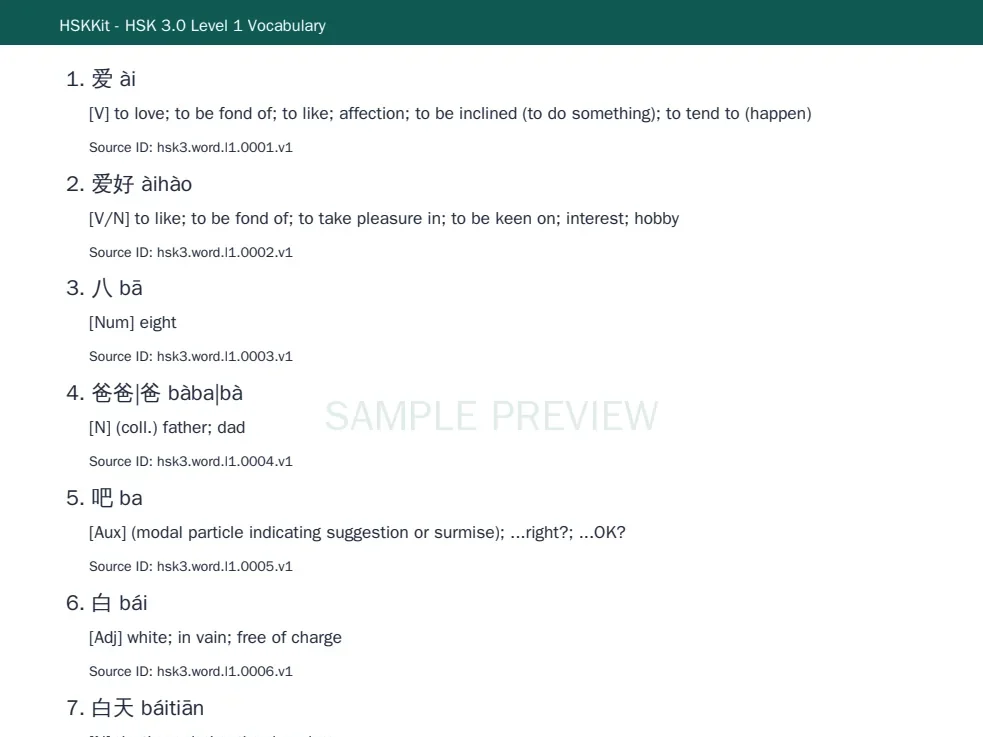
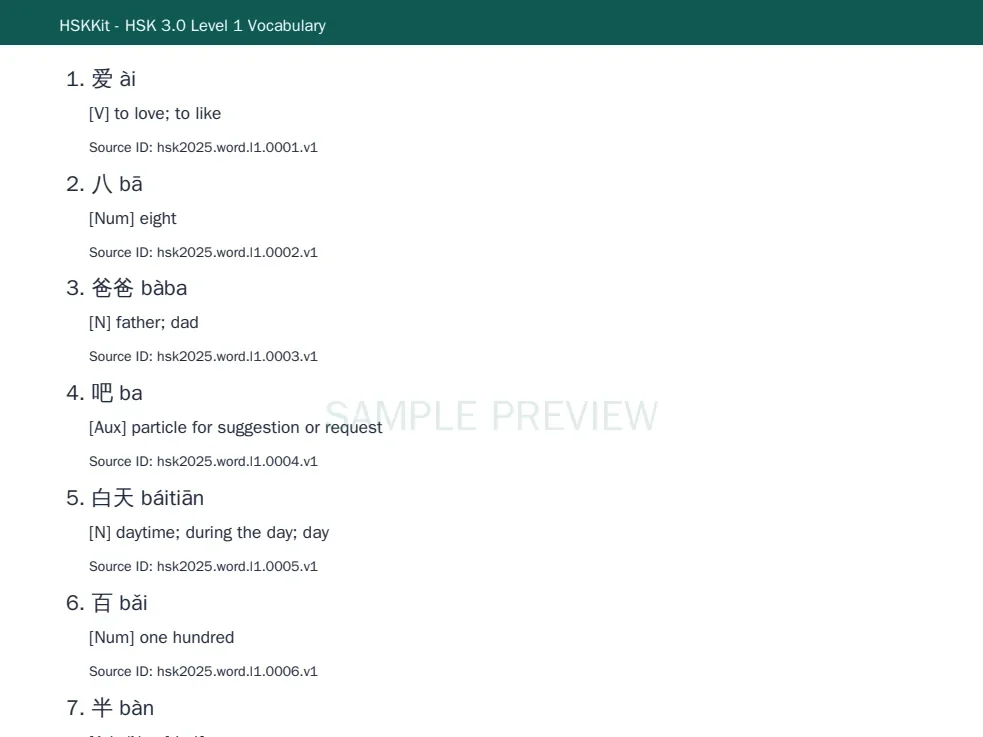
Update HSK 1 commercial PDFs and bundles to 2025 syllabus

diff --git a/src/lib/commercial/products.ts b/src/lib/commercial/products.ts
@@ -3,6 +3,7 @@ export const DIGITAL_ACCESS_DAYS=14;
 export const DIGITAL_REFUND_DAYS=7;
 export const DIGITAL_DOWNLOAD_LIMIT=3;
 export const DEFAULT_PRODUCT_GENERATION_VERSION="complete-vocabulary-v2";
+export const HSK1_VOCABULARY_GENERATION_VERSION="complete-vocabulary-hsk1-2025-v3";
 export const PLANNER_GENERATION_VERSION="planner-guided-v6";
 export const PLANNER_BUNDLE_GENERATION_VERSION="learner-toolkit-current-v6";
 export const EXAM_BUNDLE_GENERATION_VERSION="exam-preparation-current-v4";
@@ -26,19 +27,19 @@ export type DigitalProduct={
 };
 
 const levelDefinitions=[
-  {level:1,count:500,amountCents:399},{level:2,count:772,amountCents:599},{level:3,count:973,amountCents:799},
+  {level:1,count:300,amountCents:399},{level:2,count:772,amountCents:599},{level:3,count:973,amountCents:799},
   {level:4,count:1000,amountCents:1099},{level:5,count:1071,amountCents:1399},{level:6,count:1140,amountCents:1799},
 ] as const;
 const levelProducts=levelDefinitions.map(({level,count,amountCents})=>({
   id:`level-${level}` as DigitalProductId,sku:`hskkit_hsk3_level_${level}_complete_v2`,name:`HSK ${level} Complete Vocabulary`,shortName:`HSK ${level} Complete`,amountCents,currency:DIGITAL_CURRENCY,category:"level" as const,levels:[level],format:"pdf" as const,vocabularyCount:count,
-  description:`All ${count.toLocaleString("en-US")} HSK 3.0 Level ${level} entries with Hanzi, tone-marked pinyin, dictionary-style English glosses, available part-of-speech labels and source IDs.`,
+  description:`All ${count.toLocaleString("en-US")} HSK 3.0 Level ${level} entries${level===1?" following the 2025 exam syllabus":""}, with Hanzi, tone-marked pinyin, dictionary-style English glosses, available part-of-speech labels and source IDs.`,
 }));
 export const DIGITAL_PRODUCTS:readonly DigitalProduct[]=[
   ...levelProducts,
-  {id:"starter-1-3",sku:"hskkit_hsk3_starter_1_3_complete_v2",name:"HSK 1–3 Starter Complete",shortName:"Starter 1–3",amountCents:999,currency:DIGITAL_CURRENCY,category:"bundle",levels:[1,2,3],format:"zip",vocabularyCount:2245,description:"All 2,245 canonical HSK 3.0 entries from Levels 1–3 in three searchable PDFs and one offline ZIP."},
+  {id:"starter-1-3",sku:"hskkit_hsk3_starter_1_3_complete_v2",name:"HSK 1–3 Starter Complete",shortName:"Starter 1–3",amountCents:999,currency:DIGITAL_CURRENCY,category:"bundle",levels:[1,2,3],format:"zip",vocabularyCount:2045,description:"2,045 HSK 3.0 entries in three searchable PDFs: the 300-word 2025 HSK 1 syllabus plus separately versioned Levels 2–3, and one offline ZIP."},
   {id:"progression-4-6",sku:"hskkit_hsk3_progression_4_6_v2",name:"HSK 4–6 Progression",shortName:"Progression 4–6",amountCents:2999,currency:DIGITAL_CURRENCY,category:"bundle",levels:[4,5,6],format:"zip",vocabularyCount:3211,description:"All 3,211 canonical HSK 3.0 entries from Levels 4–6 in three searchable PDFs and one offline ZIP."},
   {id:"advanced-7-9",sku:"hskkit_hsk3_advanced_7_9_complete_v2",name:"HSK 3.0 Advanced 7–9 Complete Vocabulary Pack",shortName:"Advanced 7–9",amountCents:3999,currency:DIGITAL_CURRENCY,category:"bundle",levels:[7],format:"zip",vocabularyCount:5636,description:"The complete unified HSK 3.0 Advanced 7–9 band: one complete index plus three HSKKit reading volumes, never presented as official separate Level 7, 8 and 9 lists."},
-  {id:"complete-1-9",sku:"hskkit_hsk3_complete_1_9_library_v2",name:"HSK 1–9 Complete Vocabulary Library",shortName:"Complete Library",amountCents:4999,currency:DIGITAL_CURRENCY,category:"bundle",levels:[1,2,3,4,5,6,7],format:"zip",vocabularyCount:11092,description:"All 11,092 canonical HSK 3.0 entries: Levels 1–6 plus the unified Advanced 7–9 band, delivered as searchable PDFs and one offline ZIP."},
+  {id:"complete-1-9",sku:"hskkit_hsk3_complete_1_9_library_v2",name:"HSK 1–9 Complete Vocabulary Library",shortName:"Complete Library",amountCents:4999,currency:DIGITAL_CURRENCY,category:"bundle",levels:[1,2,3,4,5,6,7],format:"zip",vocabularyCount:10892,description:"10,892 entries in seven searchable PDFs and one offline ZIP: the 300-word 2025 HSK 1 syllabus plus separately versioned Levels 2–6 and the unified Advanced 7–9 band."},
   {id:"worksheet-pack",sku:"hskkit_hsk3_worksheet_pack_v2",name:"HSK Worksheet Pack",shortName:"Worksheet",amountCents:1299,currency:DIGITAL_CURRENCY,category:"resource",levels:[1,2,3,4,5,6,7],format:"zip",description:"Levels 1–9 student workbook, answer key, completed samples and progress checklist; study flow in README."},
   {id:"assessment-tracker",sku:"hskkit_hsk3_assessment_tracker_v2",name:"HSK Assessment Tracker",shortName:"Tracker",amountCents:499,currency:DIGITAL_CURRENCY,category:"resource",levels:[1,2,3,4,5,6,7],format:"zip",description:"Spreadsheet-ready tracker covering all 11,092 canonical entries, with weekly review records, scoring guide and printable checkpoints."},
   {id:"30-day-planner",sku:"hskkit_hsk3_30_day_planner_v2",name:"HSK 30-Day Planner",shortName:"30-Day Planner",amountCents:699,currency:DIGITAL_CURRENCY,category:"resource",levels:[1,2,3,4,5,6,7],format:"zip",description:"Personalized thirty-day study system with Assessment mapping, distinct 20/30/45-minute routes, weekly reviews and recovery worksheet."},
@@ -50,11 +51,11 @@ export const DIGITAL_PRODUCTS:readonly DigitalProduct[]=[
 
 export function digitalProduct(value:unknown){return DIGITAL_PRODUCTS.find(product=>product.id===value)??null;}
 export function productLicenseNotice(productId:unknown){const product=digitalProduct(productId);return product?.category==="level"||product?.category==="bundle"?VOCABULARY_PRODUCT_LICENSE:productId==="teacher-lesson-plan-pack"?TEACHER_PRODUCT_LICENSE:PURCHASED_PRODUCT_LICENSE;}
-export function generationVersionForProduct(productId:unknown){return productId==="assessment-tracker"?"assessment-tracker-v5":productId==="learner-practice-toolkit"?PLANNER_BUNDLE_GENERATION_VERSION:productId==="exam-preparation-bundle"?EXAM_BUNDLE_GENERATION_VERSION:productId==="worksheet-pack"?WORKSHEET_GENERATION_VERSION:productId==="30-day-planner"?PLANNER_GENERATION_VERSION:productId==="practice-assessment-pack"?PRACTICE_ASSESSMENT_GENERATION_VERSION:productId==="teacher-lesson-plan-pack"?TEACHER_PACK_GENERATION_VERSION:DEFAULT_PRODUCT_GENERATION_VERSION;}
+export function generationVersionForProduct(productId:unknown){return productId==="level-1"||productId==="starter-1-3"||productId==="complete-1-9"?HSK1_VOCABULARY_GENERATION_VERSION:productId==="assessment-tracker"?"assessment-tracker-v5":productId==="learner-practice-toolkit"?PLANNER_BUNDLE_GENERATION_VERSION:productId==="exam-preparation-bundle"?EXAM_BUNDLE_GENERATION_VERSION:productId==="worksheet-pack"?WORKSHEET_GENERATION_VERSION:productId==="30-day-planner"?PLANNER_GENERATION_VERSION:productId==="practice-assessment-pack"?PRACTICE_ASSESSMENT_GENERATION_VERSION:productId==="teacher-lesson-plan-pack"?TEACHER_PACK_GENERATION_VERSION:DEFAULT_PRODUCT_GENERATION_VERSION;}
 export function productDeliverableLabels(productId:unknown):string[]{
   const product=digitalProduct(productId);if(!product)throw new Error("INVALID_PRODUCT");
   if(product.category==="level")return [`${product.vocabularyCount?.toLocaleString("en-US")} entries in one searchable PDF`,`Source and licence notes inside the PDF`];
-  if(product.category==="bundle")return product.id==="advanced-7-9"?["One complete Advanced 7–9 index plus three HSKKit reading volumes","Manifest, README, licence and checksums in one ZIP"]:product.id==="complete-1-9"?["Seven complete catalogs covering 11,092 entries","Three additional Advanced reading volumes plus manifest and licence in the ZIP"]:[`${product.levels.length} searchable vocabulary PDFs covering ${product.vocabularyCount?.toLocaleString("en-US")} entries`,`Manifest, README, licence and checksums in one ZIP`];
+  if(product.category==="bundle")return product.id==="advanced-7-9"?["One complete Advanced 7–9 index plus three HSKKit reading volumes","Manifest, README, licence and checksums in one ZIP"]:product.id==="complete-1-9"?["Seven complete catalogs covering 10,892 entries","Three additional Advanced reading volumes plus manifest and licence in the ZIP"]:[`${product.levels.length} searchable vocabulary PDFs covering ${product.vocabularyCount?.toLocaleString("en-US")} entries`,`Manifest, README, licence and checksums in one ZIP`];
   if(product.category==="resource_bundle")return [`${product.componentProductIds?.length} complete resource products in one purchase`,`One combined ZIP with manifest, licence and checksums`];
   return buildProductDeliveries(product.id).map(delivery=>delivery.artifactType==="worksheet"?"Eight searchable PDFs: Start Here page map, four student editions, answer key, completed samples and progress checklist in one ZIP":delivery.artifactType==="assessment"?"Complete 11,092-entry tracker, scoring guide and printable records in one ZIP":delivery.artifactType==="planner"?"Printable, fillable and Quick Start PDFs in one ZIP":delivery.artifactType==="practice_assessment"?"Forms A/B/C, MP3s, scripts, answers, rubrics and score tracker in one ZIP":"Teacher plans, handouts, tickets/cards, homework key/rubric and editable DOCX/PPTX in one ZIP");
 }

diff --git a/src/lib/commercial/generator.ts b/src/lib/commercial/generator.ts
@@ -48,6 +48,7 @@ export async function generatePackPdf(selection: PackSelection, manifest: PackMa
   const font = await pdf.embedFont(fontBytes, { subset: false });
   const levelLabel=options?.label??(selection.level>=7?"Advanced 7–9":`Level ${selection.level}`);
   const isVolume=options?.totalAdvancedCount!==undefined;
+  const is2025Hsk1=selection.level===1&&manifest.standardVersion==="HSK-EXAM-2025";
   pdf.setTitle(`HSKKit HSK 3.0 ${levelLabel}${isVolume?" Vocabulary":" Complete Vocabulary"}`);
   pdf.setAuthor("HSKKit");
   pdf.setSubject(`HSK 3.0 ${levelLabel} vocabulary reference; ${manifest.generationVersion}`);
@@ -67,7 +68,7 @@ export async function generatePackPdf(selection: PackSelection, manifest: PackMa
   cover.drawText("汉字 · Pinyin · English · Source ID", { x: 40, y, size: 13, font }); y -= 32;
   const entryStatement=isVolume?`This reading volume repeats ${selection.words.length} of ${options.totalAdvancedCount} entries from the complete Advanced 7–9 index; numbering is continuous across the three volumes.`:`${selection.words.length} entries in this complete ${selection.level>=7?"unified Advanced 7–9 band":`Level ${selection.level}`} reference.`;
   y=drawWrapped(cover,`${entryStatement}\nGeneration: ${manifest.generationVersion}. Standard scope: ${manifest.standardVersion}. Audio is not included.`,font,10,40,y,515,15)-22;
-  y=drawWrapped(cover,"How to use this reference: find a pinyin initial below, then use page numbers or PDF search for an exact Hanzi, pinyin, English gloss or source ID. Dictionary-style glosses can include several senses; they are not graded lesson translations. A part-of-speech label appears only when the source assigns one. A vertical bar separates alternative headwords and matching pronunciations.",font,10,40,y,515,15)-16;
+  y=drawWrapped(cover,`How to use this reference: find a pinyin initial below, then use page numbers or PDF search for an exact Hanzi, pinyin, English gloss or source ID. Dictionary-style glosses can include several senses; they are not graded lesson translations. A part-of-speech label appears only when the source assigns one.${is2025Hsk1?"":" A vertical bar separates alternative headwords and matching pronunciations."}`,font,10,40,y,515,15)-16;
   if(selection.level>=7)y=drawWrapped(cover,"Advanced 7–9 is one unified vocabulary band. The reading volumes are HSKKit usability divisions, not official separate Level 7, 8 and 9 lists.",font,10,40,y,515,15)-16;
   cover.drawText("Find words by pinyin initial",{x:40,y,size:16,font,color:rgb(0.06,0.35,0.32)});
   const indexTop=y-30;
@@ -101,13 +102,17 @@ export async function generatePackPdf(selection: PackSelection, manifest: PackMa
   page=pdf.addPage(pageSize);y=790;addHeader(page);
   page.drawText("Sources, rights and traceability", { x: 40, y, size: 16, font, color: rgb(0.06,0.35,0.32) }); y -= 28;
   y=drawWrapped(page,manifest.licenseNotice,font,9,40,y,515,13)-16;
-  y=drawWrapped(page,"Level membership: PRC Ministry of Education, GF0025-2021 (https://www.moe.gov.cn/). Pinyin, variants and available POS: ivankra/hsk30 commit 4ff9e391 (MIT; https://github.com/ivankra/hsk30). English definitions: CC-CEDICT snapshot e0d756cb (CC BY-SA 4.0; https://www.mdbg.net/chinese/dictionary?page=cc-cedict and https://creativecommons.org/licenses/by-sa/4.0/). HSKKit adapts the source data for this publication. Every entry retains its source ID; the versioned delivery manifest records the full per-entry references.",font,9,40,y,515,13)-16;
+  y=drawWrapped(page,is2025Hsk1
+    ?"Level 1 placement: 2025 HSK exam syllabus (https://www.chinesetest.cn/HSK). HSKKit edited the pinyin, parts of speech and learner glosses for this publication. Adapted English definitions retain CC BY-SA 4.0 rights (https://creativecommons.org/licenses/by-sa/4.0/). Every entry retains its source ID; the versioned delivery manifest records per-entry references."
+    :"Level membership: PRC Ministry of Education, GF0025-2021 (https://www.moe.gov.cn/). Pinyin, variants and available POS: ivankra/hsk30 commit 4ff9e391 (MIT; https://github.com/ivankra/hsk30). English definitions: CC-CEDICT snapshot e0d756cb (CC BY-SA 4.0; https://www.mdbg.net/chinese/dictionary?page=cc-cedict and https://creativecommons.org/licenses/by-sa/4.0/). HSKKit adapts the source data for this publication. Every entry retains its source ID; the versioned delivery manifest records the full per-entry references.",font,9,40,y,515,13)-16;
   const sourceGroups=new Map<string,number>();for(const asset of manifest.assets){const key=`${asset.sourceRef} · ${asset.licenseRef}`;sourceGroups.set(key,(sourceGroups.get(key)??0)+1);}
   for(const [source,count] of sourceGroups){ensure(80);y=drawWrapped(page,`${count} entries: ${source}`,font,8,40,y,515,11)-8;}
   const editorial=selection.words.filter(word=>word.sourceRef.includes("hskkit-editorial"));
   if(editorial.length){ensure(100);y=drawWrapped(page,`HSKKit original compositional glosses: ${editorial.map(word=>word.id).join(", ")}`,font,8,40,y,515,11)-16;}
-  ensure(130);page.drawText("MIT source notice",{x:40,y,size:12,font,color:rgb(0.06,0.35,0.32)});y-=20;
-  for(const paragraph of HSK30_MIT_NOTICE.split("\n")){ensure(65);y=drawWrapped(page,paragraph,font,8,40,y,515,11)-2;}
+  if(!is2025Hsk1){
+    ensure(130);page.drawText("MIT source notice",{x:40,y,size:12,font,color:rgb(0.06,0.35,0.32)});y-=20;
+    for(const paragraph of HSK30_MIT_NOTICE.split("\n")){ensure(65);y=drawWrapped(page,paragraph,font,8,40,y,515,11)-2;}
+  }
   const initials=[...initialPages.entries()].sort(([a],[b])=>a.localeCompare(b));
   for(const [index,[letter,pageNumber]] of initials.entries()){
     const column=index>=Math.ceil(initials.length/2)?1:0;

diff --git a/src/app/store/page.tsx b/src/app/store/page.tsx
@@ -24,7 +24,7 @@ const lowestPriceCents=Math.min(...config.products.map(product=>product.saleAmou
 const itemList={"@context":"https://schema.org","@type":"ItemList",name:"HSKKit HSK 3.0 digital product catalog",itemListOrder:"https://schema.org/ItemListOrderAscending",numberOfItems:config.products.length,url:"https://hskkit.com/store",itemListElement:config.products.map((product,index)=>({"@type":"ListItem",position:index+1,name:product.name,url:`https://hskkit.com/store/${product.id}`}))};
 return <><StoreMobileStyle/><SiteHeader/><main data-store-route className="mx-auto w-full max-w-[1120px] px-5 py-[36px] sm:py-[56px]"><script type="application/ld+json" dangerouslySetInnerHTML={{__html:JSON.stringify(itemList)}}/>
 <header className="border-b border-slate-200 pb-[28px] sm:pb-[36px]"><p className="text-xs font-bold uppercase tracking-[0.16em] text-blue-700">One-time digital materials · Secure Stripe checkout</p><h1 className="mt-3 text-[34px] font-extrabold leading-tight tracking-[-0.035em] text-slate-950 sm:text-[46px]">Build a practical HSK 3.0 study library</h1><p className="mt-4 max-w-3xl text-base leading-7 text-slate-600 sm:text-lg">Find complete HSK 3.0 vocabulary PDFs, cross-level bundles, and ready-to-use practice or teaching resources.</p><div className="mt-5 flex flex-wrap gap-x-6 gap-y-2 text-sm font-semibold text-slate-700"><span>Products from US${(lowestPriceCents/100).toFixed(2)}</span><span>3 successful downloads per delivery</span><span>14-day download window</span></div></header>
-<p className="mt-5 rounded-xl border border-amber-200 bg-amber-50 px-5 py-3 text-sm leading-6 text-amber-950">The online HSK 1 vocabulary list now follows the 2025 exam syllabus (300 words). The downloadable Level 1 PDF and bundles containing it still include the separately versioned 500-entry file. Check each product’s preview and stated count before buying.</p>
+<p className="mt-5 rounded-xl border border-emerald-200 bg-emerald-50 px-5 py-3 text-sm leading-6 text-emerald-950">The HSK 1 vocabulary PDF and online list both follow the 2025 exam syllabus (300 words). Starter 1–3 and Complete 1–9 include this updated PDF; their other levels remain separately versioned. Check each product’s preview and stated count before buying.</p>
 <StorePurchase initialConfig={config}/>
 <section className="mt-16 border-t border-slate-200 pt-[40px]" aria-labelledby="included-heading"><div className="grid gap-8 md:grid-cols-[0.8fr_1.2fr]"><div><p className="text-sm font-bold uppercase tracking-[0.14em] text-blue-700">Private and verifiable</p><h2 id="included-heading" className="mt-2 text-3xl font-extrabold tracking-tight text-slate-950">Delivery rules stay clear</h2></div><ul className="grid gap-x-8 gap-y-4 text-slate-700 sm:grid-cols-2">{["Published, QA-approved, rights-checked content","Searchable PDFs or documented ZIP files","Embedded fonts for reliable printing","Versioned source and license manifest","Owner-only signed download links","Failed downloads do not consume allowance"].map(item=><li key={item} className="border-b border-slate-200 pb-4 text-sm leading-6"><span className="mr-2 font-bold text-blue-700">✓</span>{item}</li>)}</ul></div><div className="mt-7 max-w-4xl space-y-3 text-sm leading-6 text-slate-600"><p>Video courses, AI credits, future updates and unpublished content are excluded. Audio is excluded except for the three full-form and 27 level-only MP3 files included in the HSK Practice Assessment Pack and Exam Preparation Bundle. Practice-assessment materials are original resources, not official exams.</p><p>Every Store purchaser may keep downloaded files without a time limit and print copies for personal study or learners they teach. Printed copies may be given to those learners without charge. Printed copies and digital files may not be sold or resold; third-party vocabulary data and definitions retain their own MIT and CC BY-SA 4.0 licences.</p><p>The 14-day window and three-download allowance apply only to retrieving saved files.</p></div></section>
 <section className="mt-16 border-t border-slate-200 pt-[40px]" aria-labelledby="compare-heading"><div className="grid gap-8 md:grid-cols-[0.8fr_1.2fr] md:items-start"><div><p className="text-sm font-bold uppercase tracking-[0.14em] text-blue-700">Choose by learning goal</p><h2 id="compare-heading" className="mt-2 text-3xl font-extrabold tracking-tight text-slate-950">Store product or Pro?</h2></div><div className="grid gap-6 sm:grid-cols-2"><div className="border-l-2 border-blue-600 pl-5"><h3 className="text-lg font-extrabold text-slate-950">Store product</h3><p className="mt-2 text-sm leading-6 text-slate-600">A fixed printable or offline resource purchased once for a specific scope.</p></div><div className="border-l-2 border-slate-300 pl-5"><h3 className="text-lg font-extrabold text-slate-950">Pro</h3><p className="mt-2 text-sm leading-6 text-slate-600">Ongoing review, Focused mode, device sync and AI learning capabilities.</p></div><Link href="/pricing" className="inline-flex min-h-11 items-center font-bold text-blue-700 sm:col-span-2">Compare Free and Pro →</Link></div></div></section>

diff --git a/src/lib/commercial/catalog.ts b/src/lib/commercial/catalog.ts
@@ -1,5 +1,6 @@
 import runtimeIndex from "../content/runtime-content-index.json" with { type: "json" };
 import canonicalRelease from "../../../content/releases/hsk3-gf0025-2021-v2.json" with { type: "json" };
+import hsk1CommercialRelease from "../../../content/releases/hsk1-2025-commercial-v1.json" with { type: "json" };
 import {VOCABULARY_PRODUCT_LICENSE} from "./products.ts";
 
 export type PackWord = {
@@ -24,15 +25,16 @@ export type PackManifest = {
   schemaVersion: "hskkit-pack-manifest-v1";
   generationVersion: string;
   standard: "HSK 3.0";
-  standardVersion: "GF0025-2021";
+  standardVersion: "GF0025-2021" | "HSK-EXAM-2025";
   level: number;
   assets: Array<{ id: string; version: string; contentVersion: string; sourceRef: string; licenseRef: string }>;
   excludedAudioReason: "offline_redistribution_not_authorized";
   licenseNotice: string;
 };
 
-type CanonicalEntry=(typeof canonicalRelease.entries)[number];
+type CanonicalEntry=(typeof canonicalRelease.entries)[number] | (typeof hsk1CommercialRelease.entries)[number];
 const contentAssets=canonicalRelease.entries;
+const currentHsk1Assets=hsk1CommercialRelease.entries;
 const audioAssets = runtimeIndex.publishedAudioAssets;
 
 function canonicalLevelBand(level:number){
@@ -49,9 +51,10 @@ function toPackWord(asset:CanonicalEntry,level:number):PackWord{
   };
 }
 
-export function selectPackAssets(level: number): PackSelection {
+export function selectPackAssets(level: number, catalogVersion: "legacy" | "hsk1-2025" = "legacy"): PackSelection {
   const band=canonicalLevelBand(level);
-  const eligible=contentAssets.filter(asset=>asset.level_band===band&&asset.publish_status==="published"&&asset.qa_status==="approved"&&Boolean(asset.source_ref)&&Boolean(asset.license_ref));
+  const source=catalogVersion==="hsk1-2025"&&level===1?currentHsk1Assets:contentAssets;
+  const eligible=source.filter(asset=>asset.level_band===band&&asset.publish_status==="published"&&asset.qa_status==="approved"&&Boolean(asset.source_ref)&&Boolean(asset.license_ref));
   if (!eligible.length) throw new Error("CONTENT_NOT_RELEASED");
   const words:PackWord[]=eligible.map(asset=>toPackWord(asset,level));
   const exerciseCount=Math.min(20,words.length);
@@ -70,7 +73,7 @@ export function selectPackAssets(level: number): PackSelection {
 export function manifestStillAuthorized(manifestJson:string|null|undefined){
   if(!manifestJson)return false;
   try{const manifest=JSON.parse(manifestJson) as {schemaVersion?:string;productId?:string;sourceIndependent?:boolean;assets?:PackManifest["assets"]}; if(!Array.isArray(manifest.assets))return false;if(manifest.assets.length===0)return manifest.schemaVersion==="hskkit-product-manifest-v1"&&["30-day-planner","practice-assessment-pack"].includes(manifest.productId??"")&&manifest.sourceIndependent===true;
-    const byId=new Map(contentAssets.map(asset=>[asset.id,asset]));
+    const byId=new Map([...contentAssets,...currentHsk1Assets].map(asset=>[asset.id,asset]));
     return manifest.assets.every(ref=>{const asset=byId.get(ref.id); return Boolean(
       asset&&(asset.id.match(/\.v(\d+)$/)?.[1]??"1")===ref.version&&Boolean(asset.source_ref)&&Boolean(asset.license_ref),
     );});
@@ -83,10 +86,12 @@ export function buildPackManifest(selection: PackSelection, generationVersion: s
     schemaVersion: "hskkit-pack-manifest-v1",
     generationVersion,
     standard: "HSK 3.0",
-    standardVersion: "GF0025-2021",
+    standardVersion: selection.level===1&&selection.words.every(word=>word.standardVersion==="HSK-EXAM-2025")?"HSK-EXAM-2025":"GF0025-2021",
     level: selection.level,
     assets: selection.words.map((word) => ({ id: word.id, version: word.version, contentVersion: word.contentVersion, sourceRef: word.sourceRef, licenseRef: word.licenseRef })),
     excludedAudioReason: "offline_redistribution_not_authorized",
-    licenseNotice: `HSK 3.0 level membership follows GF0025-2021. Pinyin and available POS labels are adapted from ivankra/hsk30 (MIT); English definitions are adapted from CC-CEDICT (CC BY-SA 4.0). Source details: https://hskkit.com/content-license. ${VOCABULARY_PRODUCT_LICENSE}`,
+    licenseNotice: selection.level===1&&selection.words[0]?.standardVersion==="HSK-EXAM-2025"
+      ?`Level 1 placement follows the 2025 HSK exam syllabus. Pinyin, part-of-speech labels and English learner glosses were edited by HSKKit; adapted earlier definitions retain CC BY-SA 4.0 rights. Source details: https://hskkit.com/content-license. ${VOCABULARY_PRODUCT_LICENSE}`
+      :`HSK 3.0 level membership follows GF0025-2021. Pinyin and available POS labels are adapted from ivankra/hsk30 (MIT); English definitions are adapted from CC-CEDICT (CC BY-SA 4.0). Source details: https://hskkit.com/content-license. ${VOCABULARY_PRODUCT_LICENSE}`,
   };
 }

diff --git a/src/app/store/[productId]/page.tsx b/src/app/store/[productId]/page.tsx
@@ -30,6 +30,6 @@ export default async function ResourceProductPage({params}:{params:Promise<{prod
   const currentProduct=config.products.find(item=>item.id===product.slug);
   const offer=Object.fromEntries([["@type","Offer"],["price",((currentProduct?.saleAmountCents??product.amountCents)/100).toFixed(2)],["priceCurrency","USD"],["url",`https://hskkit.com/store/${product.slug}`]]);
   const productJson={"@context":"https://schema.org","@type":"Product",name:product.name,description:product.summary,image:`https://hskkit.com${product.previewImage}`,offers:offer};
-  const hasEarlierLevelOnePdf=["level-1","starter-1-3","complete-1-9"].includes(productId);
-  return <><StoreMobileStyle/><SiteHeader/><main data-store-route className="mx-auto w-full max-w-[1160px] px-5 py-8 sm:py-12"><script type="application/ld+json" dangerouslySetInnerHTML={{__html:JSON.stringify(productJson)}}/>{hasEarlierLevelOnePdf&&<p className="mb-6 rounded-xl border border-amber-200 bg-amber-50 px-5 py-3 text-sm leading-6 text-amber-950">This download includes the original 500-entry Level 1 PDF. The online <Link className="font-semibold underline" href="/vocabulary/1">HSK 1 vocabulary list</Link> now follows the 2025 exam syllabus with 300 words. The PDF is a separately versioned product; please review its samples before purchase.</p>}<ResourceProductDetail product={product}/></main><SiteFooter/></>;
+  const hasCurrentLevelOnePdf=["level-1","starter-1-3","complete-1-9"].includes(productId);
+  return <><StoreMobileStyle/><SiteHeader/><main data-store-route className="mx-auto w-full max-w-[1160px] px-5 py-8 sm:py-12"><script type="application/ld+json" dangerouslySetInnerHTML={{__html:JSON.stringify(productJson)}}/>{hasCurrentLevelOnePdf&&<p className="mb-6 rounded-xl border border-emerald-200 bg-emerald-50 px-5 py-3 text-sm leading-6 text-emerald-950">The included Level 1 PDF now matches the 2025 exam syllabus and the online <Link className="font-semibold underline" href="/vocabulary/1">300-word HSK 1 list</Link>. {productId!=="level-1"&&"Other level PDFs in this bundle remain on their separately published versions; check their samples and counts before buying."}</p>}<ResourceProductDetail product={product}/></main><SiteFooter/></>;
 }

diff --git a/src/lib/commercial/product-details.ts b/src/lib/commercial/product-details.ts
@@ -5,7 +5,7 @@ export type StoreProductDetail=ResourceProductDetail;
 
 const sample=(src:string,label:string,caption:string)=>({src,alt:`Readable ${label} sample from the actual HSKKit delivery file`,label,caption});
 const vocabularySamples:Partial<Record<DigitalProductId,StoreProductDetail["samplePages"]>>={
-  "level-1":[sample("/store/samples/vocabulary/level-1-sample-1.webp","Level 1 opening page","Inspect the real entry layout, tone-marked pinyin, English meaning and canonical source ID."),sample("/store/samples/vocabulary/level-1-sample-2.webp","Level 1 interior page","Confirm the same readable structure continues through the complete 500-entry file.")],
+  "level-1":[sample("/store/samples/vocabulary/level-1-sample-1.webp","Level 1 opening page","Inspect the real 2025 HSK 1 entry layout, tone-marked pinyin, English meaning and source ID."),sample("/store/samples/vocabulary/level-1-sample-2.webp","Level 1 interior page","Confirm the same readable structure continues through the complete 300-entry file.")],
   "level-2":[sample("/store/samples/vocabulary/level-2-sample-1.webp","Level 2 opening page","A real rendered page from the complete 772-entry searchable PDF."),sample("/store/samples/vocabulary/level-2-sample-2.webp","Level 2 interior page","Inspect Chinese, pinyin, English and traceable source IDs before checkout.")],
   "level-3":[sample("/store/samples/vocabulary/level-3-sample-1.webp","Level 3 opening page","A real rendered page from the complete 973-entry searchable PDF."),sample("/store/samples/vocabulary/level-3-sample-2.webp","Level 3 interior page","Confirm readable wrapping and complete entry fields in the actual delivery format.")],
   "level-4":[sample("/store/samples/vocabulary/level-4-sample-1.webp","Level 4 opening page","A real rendered page from the complete 1,000-entry searchable PDF."),sample("/store/samples/vocabulary/level-4-sample-2.webp","Level 4 interior page","Inspect the denser vocabulary layout at a practical reading scale.")],

diff --git a/src/lib/commercial/product-generator.ts b/src/lib/commercial/product-generator.ts
@@ -798,7 +798,7 @@ export async function generateDifferentiatedProductArtifact(productId:DigitalPro
   // that same band; corpus exports include the canonical band only once.
   const selections=(product.id==="assessment-tracker"||product.id==="30-day-planner"
     ?[1,2,3,4,5,6,7]
-    :[1,2,3,4,5,6,7,8,9]).map(selectPackAssets);
+    :[1,2,3,4,5,6,7,8,9]).map(level=>selectPackAssets(level));
   if(product.id==="30-day-planner"){
     const plan=buildPlannerPack();
     const quickStart=await makePdf("HSK 30-Day Planner · Quick Start",plan.positioning,[{heading:"Before you start: bring your own practice materials",body:["This is a guided plan, not a course or question bank. It does not include word lists, graded questions or answers, audio/transcripts, or writing feedback.","Prepare level-matched vocabulary, keyed reading items, transcript-backed listening questions, and writing prompts with a model or teacher check. Read the two preparation/example pages of the main PDF before Day 1."]},{heading:"Score fairly, then choose a route",body:["Day 1 covers vocabulary and reading; the 30/45-minute routes add writing. Measure listening separately before comparing four skills—it is outside Day 1's timer.","Convert first-attempt correct / total to a score out of 100. Mark absent checks NOT MEASURED, never zero. Pick the lowest measured skill on the two-page mapping and reserve its first assignment.","Complete only your chosen 20/30/45-minute route. Record evidence in the PDF. The optional XLSX summarizes statuses; it does not supply practice or grade work."]},{heading:"Review and recover",body:["Review on Days 7, 14, 21, and 28 with fresh input. Move only unfinished work when you miss a day; keep completed work. On Day 30 compare against a fresh sample using the same scoring method."]}],fontBytes);

diff --git a/src/app/store/store-purchase.tsx b/src/app/store/store-purchase.tsx
@@ -10,7 +10,7 @@ const categories=["level","bundle","resource","resource_bundle","teacher"] as co
 const categoryLinks={level:"HSK levels",bundle:"Vocabulary bundles",resource:"Study resources",resource_bundle:"Resource bundles",teacher:"Teacher pack"} as const;
 const sectionCopy={
   level:{eyebrow:"Complete HSK 3.0 level files",title:"Choose one complete level",copy:"Six complete Levels 1–6 vocabulary PDFs with canonical counts, searchable text and source IDs."},
-  bundle:{eyebrow:"Complete vocabulary Bundles",title:"Study across levels",copy:"Starter, Progression, unified Advanced 7–9 and the full 11,092-entry library—each with explicit contents and real samples."},
+  bundle:{eyebrow:"Complete vocabulary Bundles",title:"Study across levels",copy:"Starter, Progression, unified Advanced 7–9 and the 10,892-entry mixed-version library—each with explicit contents and real samples."},
   resource:{eyebrow:"Practice, planning and assessment",title:"Build a repeatable study system",copy:"Open the actual sample pages, inspect every included file, then choose the complete resource that fits your work."},
   resource_bundle:{eyebrow:"Connected resource Bundles",title:"Combine practice and review",copy:"Complete component products packaged together at a lower one-time price; no shortened Bundle editions."},
   teacher:{eyebrow:"For independent teachers",title:"Teach from ready-to-edit files",copy:"Classroom plans, handouts, checks and editable office files with flexible printing for learners you teach."},

diff --git a/scripts/generate-vocabulary-samples.py b/scripts/generate-vocabulary-samples.py
@@ -15,16 +15,28 @@ watermark = runpy.run_path(str(Path(__file__).resolve().parent / "generate-store
 def main() -> None:
     parser = argparse.ArgumentParser()
     parser.add_argument("artifact_root", type=Path)
+    parser.add_argument("--generation-version", default="complete-vocabulary-v2")
+    parser.add_argument("--hsk1-2025-only", action="store_true")
     args = parser.parse_args()
-    root = args.artifact_root / "complete-vocabulary-v2"
+    root = args.artifact_root / args.generation_version
     destination = Path(__file__).resolve().parents[1] / "public/store/samples/vocabulary"
     destination.mkdir(parents=True, exist_ok=True)
 
     previews = []
-    for level in range(1, 7):
-        pdf = root / f"level-{level}" / f"level-{level}.pdf"
-        previews.extend([(pdf, 2, f"level-{level}-sample-1.webp"), (pdf, 18, f"level-{level}-sample-2.webp")])
-    previews.extend([
+    if args.hsk1_2025_only:
+        previews = [
+            (root / "level-1/level-1.pdf", 2, "level-1-sample-1.webp"),
+            (root / "level-1/level-1.pdf", 18, "level-1-sample-2.webp"),
+            (root / "starter-1-3/level-1.pdf", 2, "starter-1-3-sample-1.webp"),
+            (root / "starter-1-3/level-3.pdf", 18, "starter-1-3-sample-2.webp"),
+            (root / "complete-1-9/level-1.pdf", 2, "complete-1-9-sample-1.webp"),
+            (root / "complete-1-9/level-7.pdf", 35, "complete-1-9-sample-2.webp"),
+        ]
+    else:
+        for level in range(1, 7):
+            pdf = root / f"level-{level}" / f"level-{level}.pdf"
+            previews.extend([(pdf, 2, f"level-{level}-sample-1.webp"), (pdf, 18, f"level-{level}-sample-2.webp")])
+        previews.extend([
         (root / "level-1/level-1.pdf", 2, "starter-1-3-sample-1.webp"),
         (root / "level-3/level-3.pdf", 18, "starter-1-3-sample-2.webp"),
         (root / "level-4/level-4.pdf", 2, "progression-4-6-sample-1.webp"),
@@ -33,7 +45,7 @@ def main() -> None:
         (root / "advanced-7-9/level-7.pdf", 35, "advanced-7-9-sample-2.webp"),
         (root / "level-1/level-1.pdf", 2, "complete-1-9-sample-1.webp"),
         (root / "advanced-7-9/level-7.pdf", 35, "complete-1-9-sample-2.webp"),
-    ])
+        ])
     for source, page_number, filename in previews:
         document = pypdfium2.PdfDocument(str(source))
         if page_number > len(document):
@@ -45,7 +57,7 @@ def main() -> None:
 
     card_directory = destination.parents[1] / "previews/vocabulary"
     card_directory.mkdir(parents=True, exist_ok=True)
-    product_ids = [*(f"level-{level}" for level in range(1, 7)), "starter-1-3", "progression-4-6", "advanced-7-9", "complete-1-9"]
+    product_ids = ["level-1", "starter-1-3", "complete-1-9"] if args.hsk1_2025_only else [*(f"level-{level}" for level in range(1, 7)), "starter-1-3", "progression-4-6", "advanced-7-9", "complete-1-9"]
     for product_id in product_ids:
         sample_image = Image.open(destination / f"{product_id}-sample-1.webp").convert("RGB")
         card_image = sample_image.crop((0, 0, sample_image.width, min(sample_image.height, round(sample_image.width * 0.75))))

diff --git a/scripts/content/build-hsk1-2025-commercial-index.py b/scripts/content/build-hsk1-2025-commercial-index.py
@@ -1,0 +1,44 @@
+#!/usr/bin/env python3
+"""Build the commercial HSK 1 input from the approved active content release."""
+
+from __future__ import annotations
+
+import json
+from pathlib import Path
+
+
+ROOT = Path(__file__).resolve().parents[2]
+catalog = json.loads((ROOT / "src/lib/content/catalog.json").read_text(encoding="utf-8"))
+release_id = "hsk3-hsk1-2025-v6"
+if catalog["activeReleaseByStandard"]["hsk3"] != release_id:
+    raise SystemExit("The expected HSK 1 release is not active")
+release = next(item for item in catalog["releases"] if item["id"] == release_id)
+by_id = {item["id"]: item for item in catalog["contentAssets"]}
+entries = []
+for asset_id in release["contentAssetIds"]:
+    asset = by_id[asset_id]
+    if not (asset["kind"] == "word" and asset["level"] == 1):
+        continue
+    if not (asset["qaStatus"] == "approved" and asset["publish_status"] == "published" and asset["authorization"]["status"] == "authorized"):
+        raise SystemExit(f"Unapproved word {asset_id}")
+    payload = asset["payload"]
+    entries.append({
+        "id": asset_id,
+        "content_version": asset["content_version"],
+        "standard_version": asset["standard_version"],
+        "level_band": "1",
+        "publish_status": asset["publish_status"],
+        "qa_status": asset["qaStatus"],
+        "source_ref": asset["source_ref"],
+        "license_ref": asset["license_ref"],
+        "hanzi": payload["hanzi"],
+        "traditional": payload["traditional"],
+        "pinyin": payload["pinyin"],
+        "meaning": payload["meaning"],
+        "partOfSpeech": payload["partOfSpeech"],
+    })
+if len(entries) != 300 or any(item["standard_version"] != "HSK-EXAM-2025" for item in entries):
+    raise SystemExit("Expected exactly 300 approved 2025 HSK 1 words")
+output = ROOT / "content/releases/hsk1-2025-commercial-v1.json"
+output.write_text(json.dumps({"releaseId": release_id, "entries": entries}, ensure_ascii=False, separators=(",", ":")) + "\n", encoding="utf-8")
+print(f"Wrote {len(entries)} commercial HSK 1 words to {output}")
